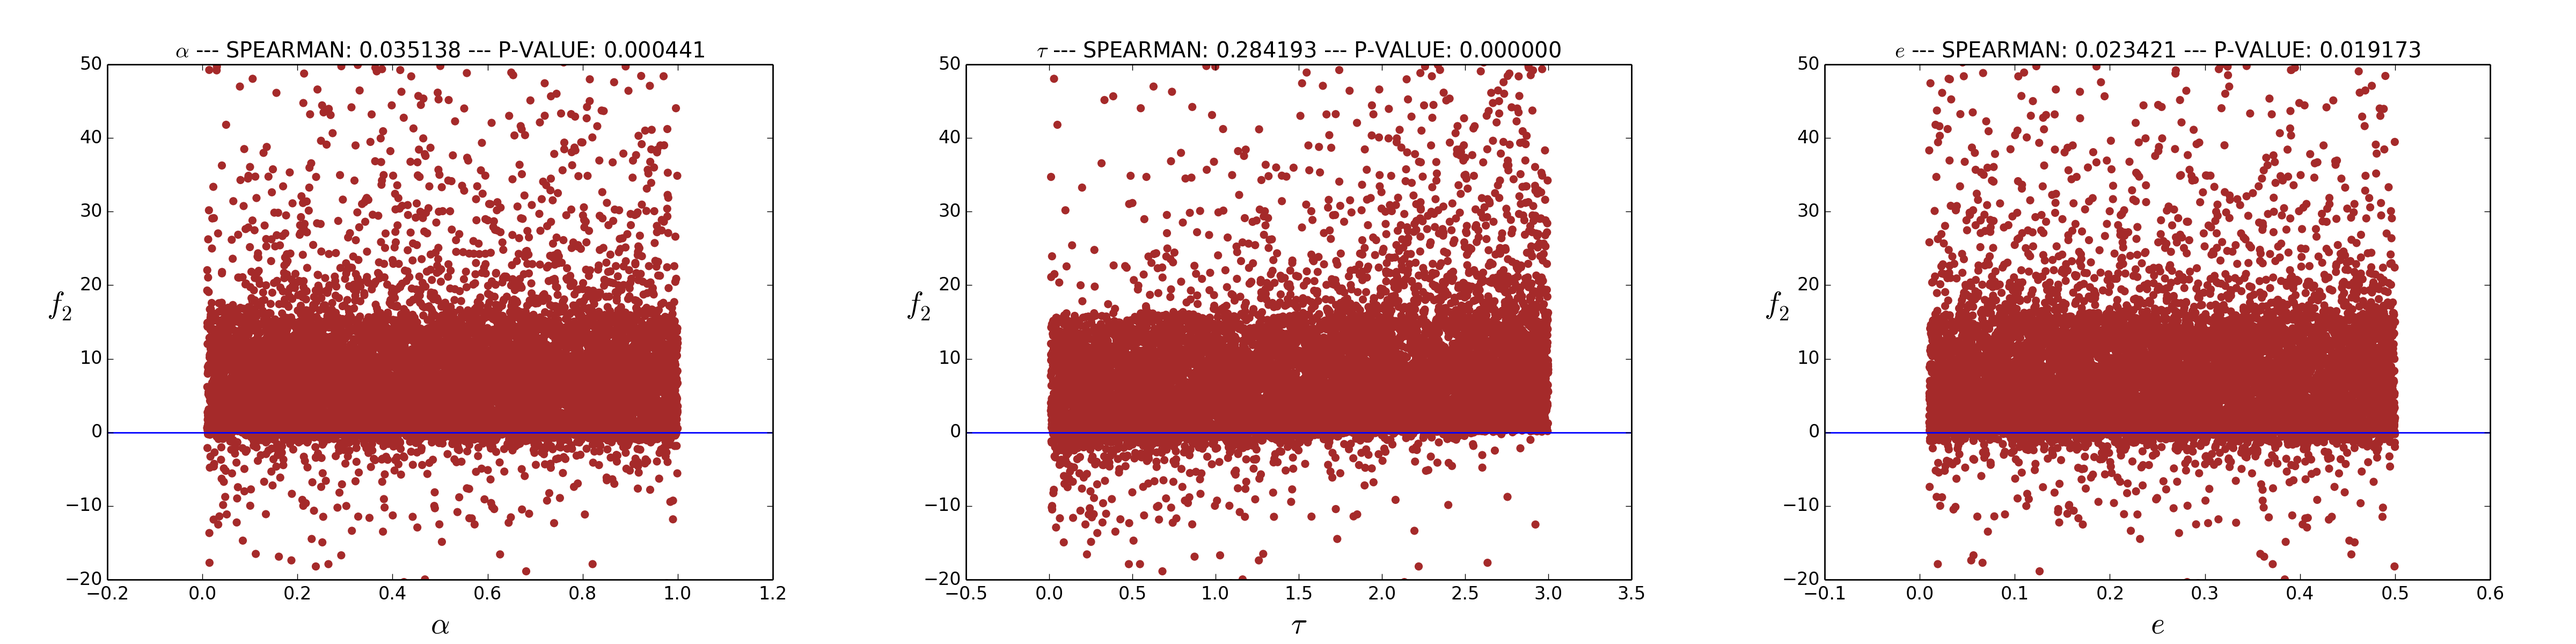
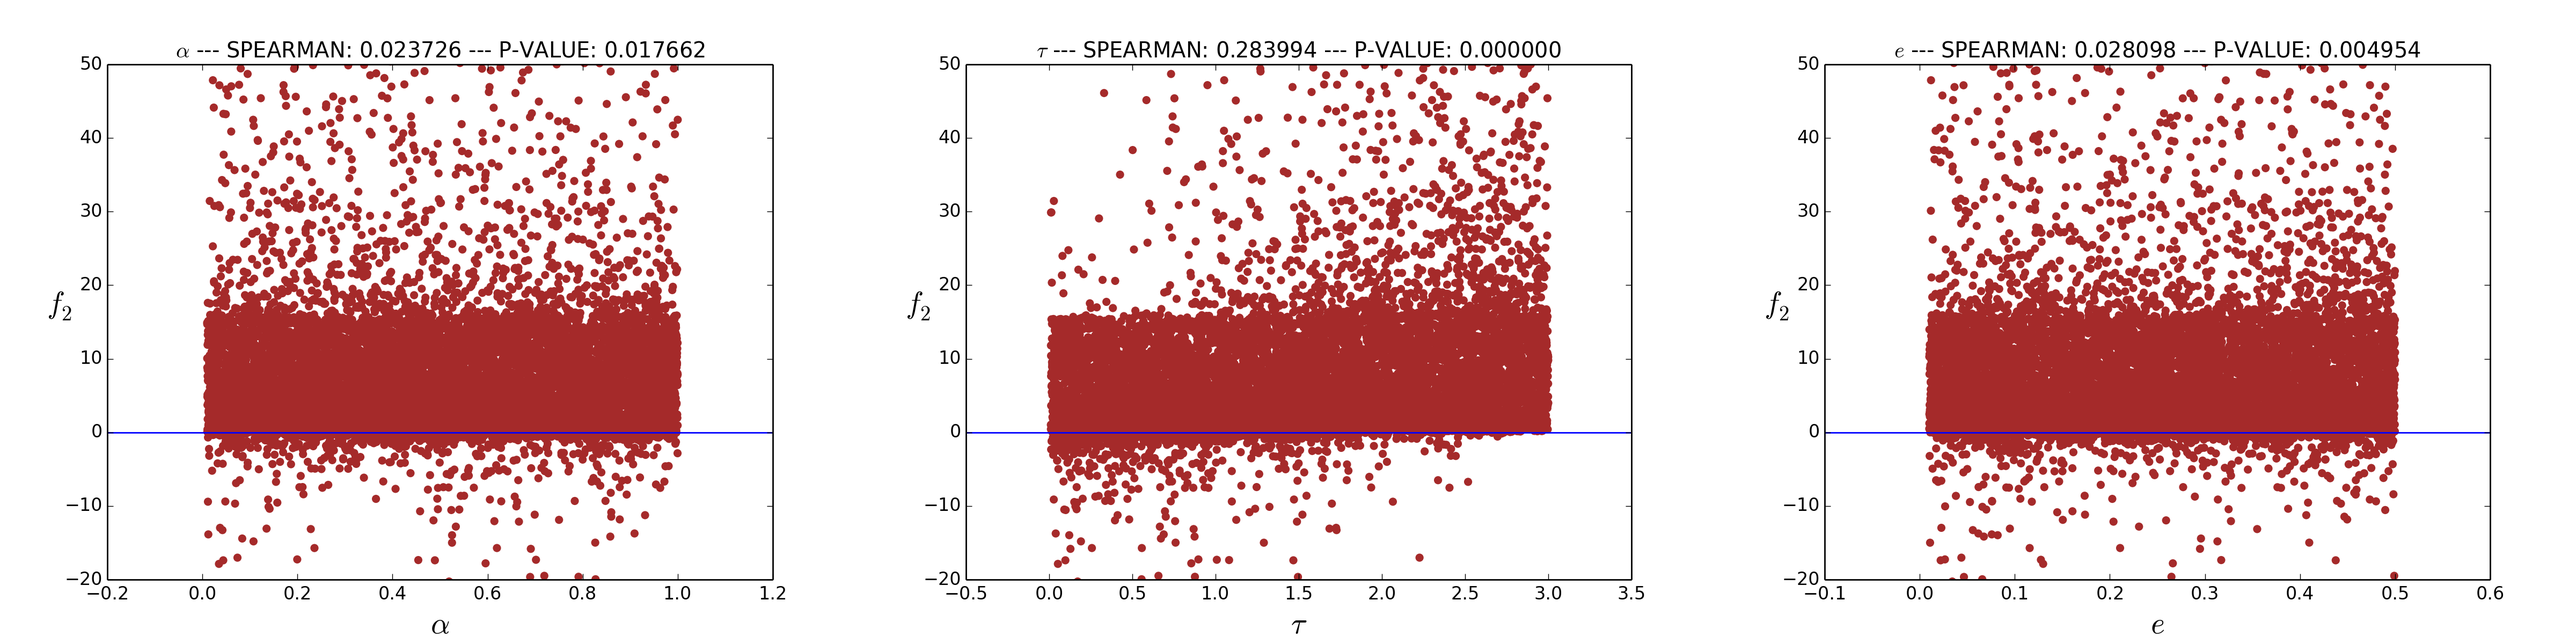
Re-ran the model 2 sensitivity analysis, and updated 2.py by changing 'spearman constant' to 'spearman coefficient'.  Re-ran the contour plots

diff --git a/Hypercube_Sampling/2.py b/Hypercube_Sampling/2.py
@@ -88,7 +88,7 @@ def main():
         "alpha": (0.01, 1),
         "tau": (0.01, 3),
         "e": (0.01, 0.5),
-        "K": (1, 500)
+        "K": (50, 500)
     }
 
     parameters = len(parameter_list)
@@ -165,7 +165,7 @@ def main():
     pylab.barh(pos, SP_VALS, align='center', color="brown")
     LATEX_PARAMETER_LIST = [VERTICAL_RATIO[p] for p in parameter_list]
     pylab.yticks(pos, LATEX_PARAMETER_LIST, fontsize=20)
-    pylab.xlabel('Spearman Constant', fontsize=20)
+    pylab.xlabel('Spearman Coefficient', fontsize=20)
     pylab.ylabel("Parameter", fontsize=20)
     pylab.savefig("%s/bar_plot.png" % directory, format="png", dpi=200)
     pylab.close()
